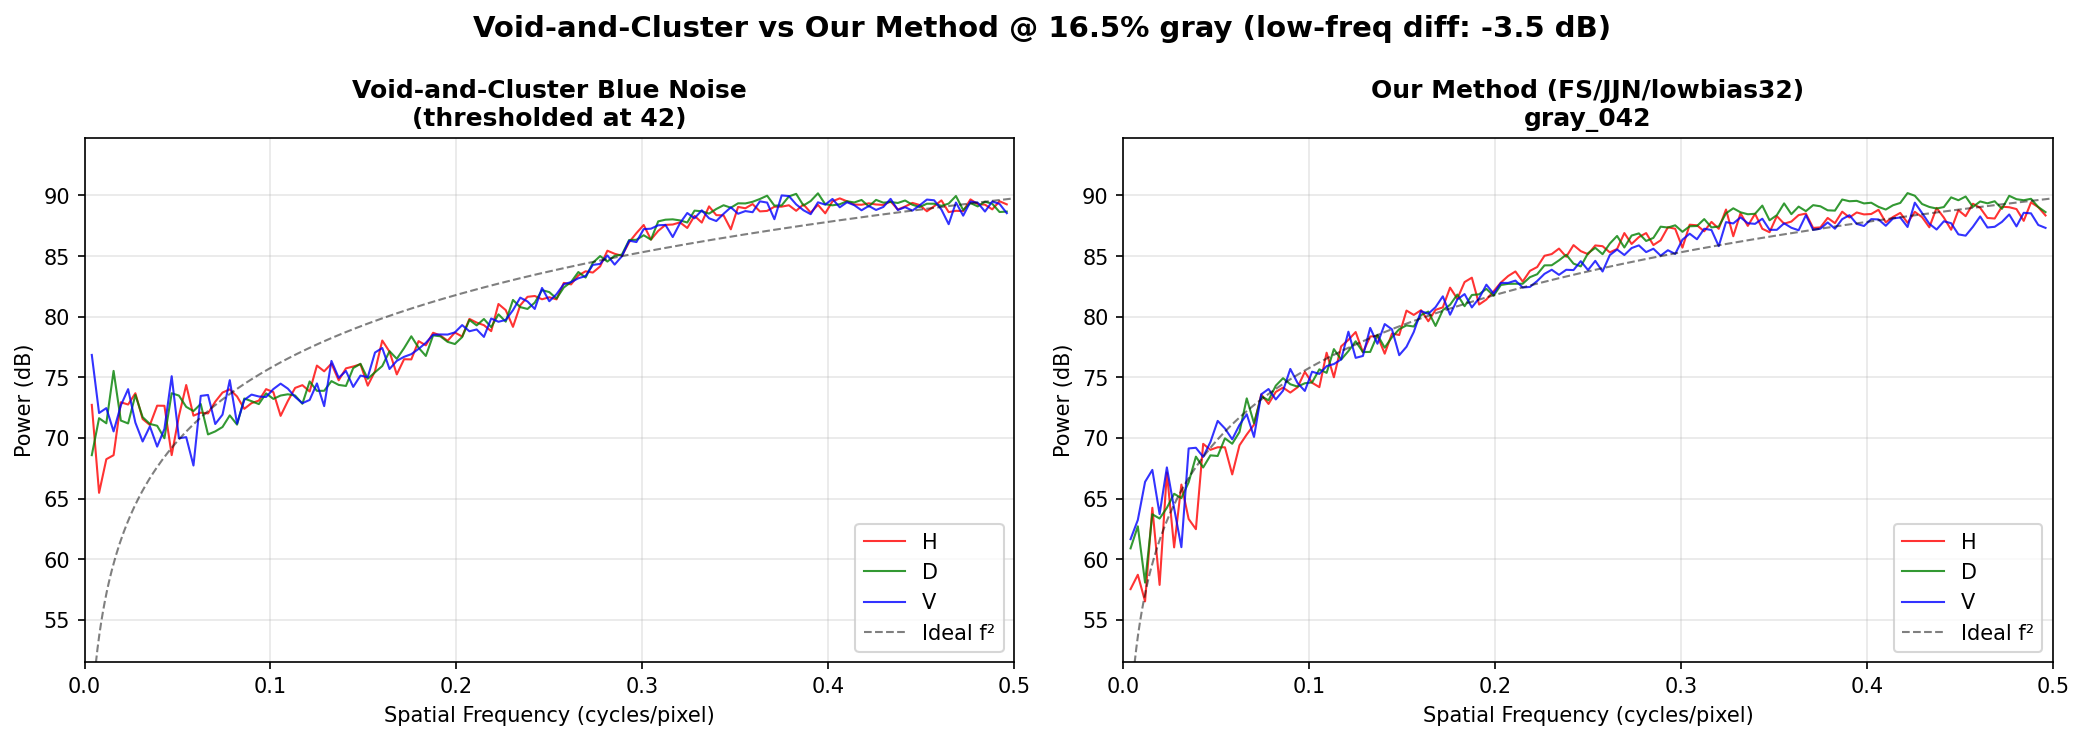
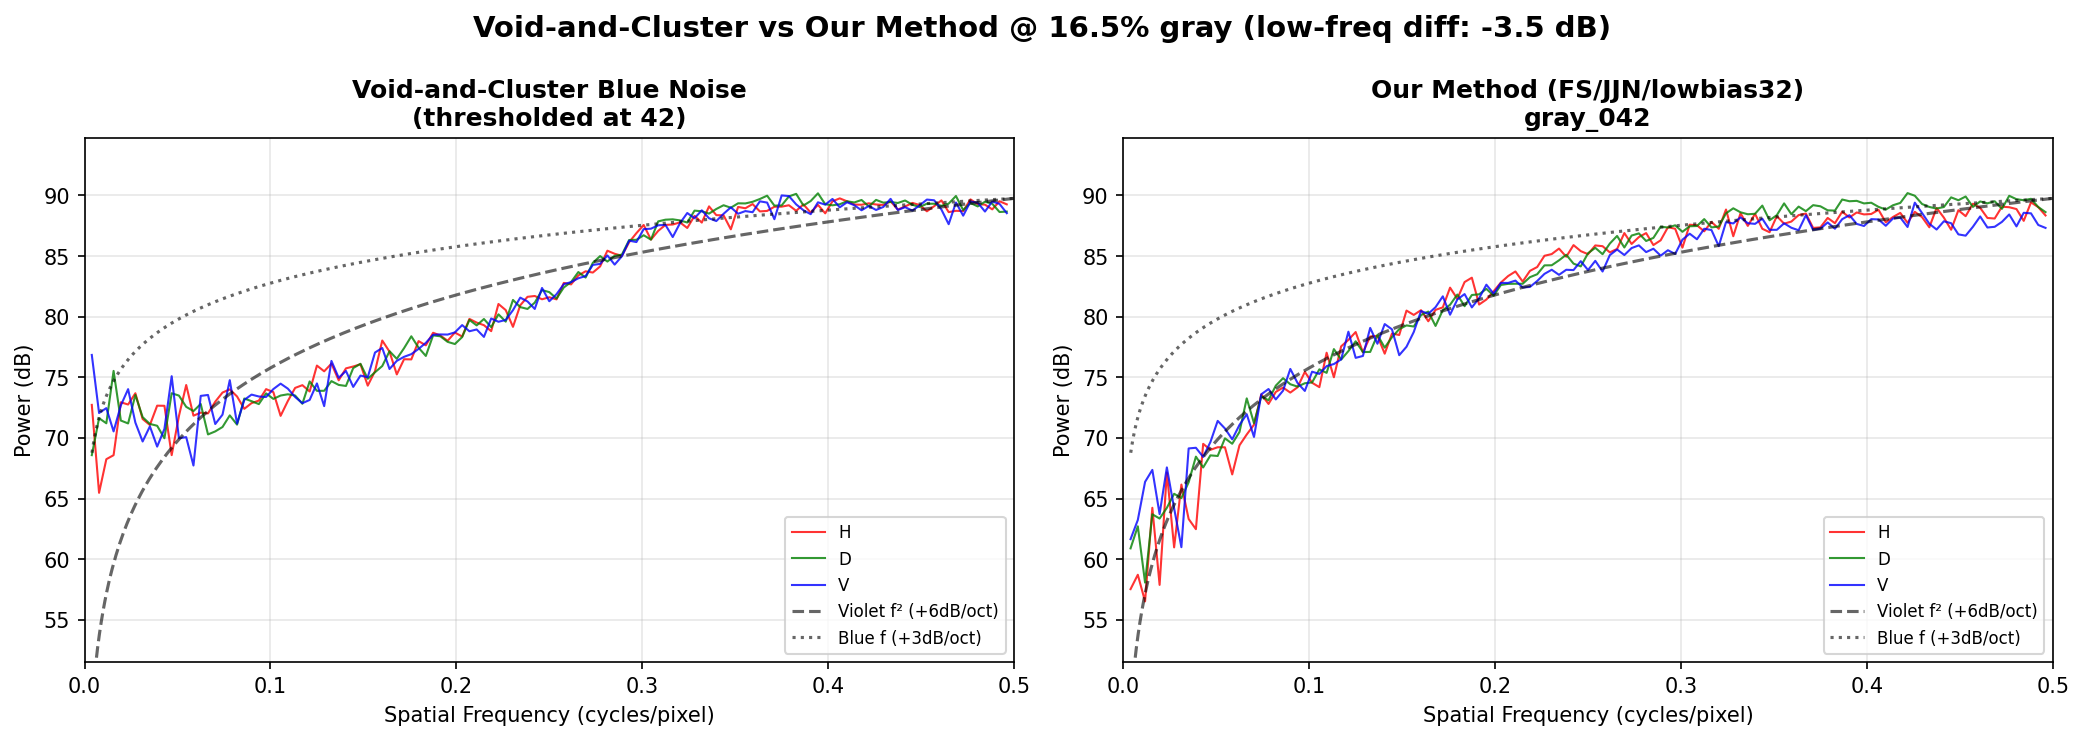
Additional comparison

diff --git a/tools/analyze_dither.py b/tools/analyze_dither.py
@@ -840,10 +840,13 @@ def analyze_vs_blue_noise(base_dir: Path, output_dir: Path):
         d_om_db = 10 * np.log10(d_om + 1e-10)
         v_om_db = 10 * np.log10(v_om + 1e-10)
 
-        # Ideal f² curve for reference
+        # Ideal curves for reference
         freqs_ideal = np.linspace(0.004, 0.5, 500)
         P_ref = 10 ** (h_bn_db.max() / 10)
-        power_ideal_db = 10 * np.log10(P_ref * (freqs_ideal / 0.5) ** 2 + 1e-10)
+        # Violet (+6 dB/octave, f²) - what graphics calls "blue noise"
+        power_violet_db = 10 * np.log10(P_ref * (freqs_ideal / 0.5) ** 2 + 1e-10)
+        # Audio blue (+3 dB/octave, f)
+        power_blue_db = 10 * np.log10(P_ref * (freqs_ideal / 0.5) + 1e-10)
 
         # Calculate stats
         bn_avg_db = (h_bn_db + d_bn_db + v_bn_db) / 3
@@ -859,27 +862,29 @@ def analyze_vs_blue_noise(base_dir: Path, output_dir: Path):
         axes[0].plot(freqs_bn, h_bn_db, 'r-', label='H', alpha=0.8, linewidth=1)
         axes[0].plot(freqs_bn, d_bn_db, 'g-', label='D', alpha=0.8, linewidth=1)
         axes[0].plot(freqs_bn, v_bn_db, 'b-', label='V', alpha=0.8, linewidth=1)
-        axes[0].plot(freqs_ideal, power_ideal_db, 'k--', linewidth=1, alpha=0.5, label='Ideal f²')
+        axes[0].plot(freqs_ideal, power_violet_db, 'k--', linewidth=1.5, alpha=0.6, label='Violet f² (+6dB/oct)')
+        axes[0].plot(freqs_ideal, power_blue_db, 'k:', linewidth=1.5, alpha=0.6, label='Blue f (+3dB/oct)')
         axes[0].set_xlabel('Spatial Frequency (cycles/pixel)')
         axes[0].set_ylabel('Power (dB)')
         axes[0].set_title(f'Void-and-Cluster Blue Noise\n(thresholded at {gray})', fontsize=12, fontweight='bold')
         axes[0].set_xlim(0, 0.5)
         axes[0].set_ylim(y_min, y_max)
         axes[0].grid(True, alpha=0.3)
-        axes[0].legend(loc='lower right')
+        axes[0].legend(loc='lower right', fontsize=8)
 
         # Right: Our Method
         axes[1].plot(freqs_om, h_om_db, 'r-', label='H', alpha=0.8, linewidth=1)
         axes[1].plot(freqs_om, d_om_db, 'g-', label='D', alpha=0.8, linewidth=1)
         axes[1].plot(freqs_om, v_om_db, 'b-', label='V', alpha=0.8, linewidth=1)
-        axes[1].plot(freqs_ideal, power_ideal_db, 'k--', linewidth=1, alpha=0.5, label='Ideal f²')
+        axes[1].plot(freqs_ideal, power_violet_db, 'k--', linewidth=1.5, alpha=0.6, label='Violet f² (+6dB/oct)')
+        axes[1].plot(freqs_ideal, power_blue_db, 'k:', linewidth=1.5, alpha=0.6, label='Blue f (+3dB/oct)')
         axes[1].set_xlabel('Spatial Frequency (cycles/pixel)')
         axes[1].set_ylabel('Power (dB)')
         axes[1].set_title(f'Our Method (FS/JJN/lowbias32)\ngray_{gray:03d}', fontsize=12, fontweight='bold')
         axes[1].set_xlim(0, 0.5)
         axes[1].set_ylim(y_min, y_max)
         axes[1].grid(True, alpha=0.3)
-        axes[1].legend(loc='lower right')
+        axes[1].legend(loc='lower right', fontsize=8)
 
         gray_pct = gray / 255 * 100
         plt.suptitle(f'Void-and-Cluster vs Our Method @ {gray_pct:.1f}% gray (low-freq diff: {low_freq_diff:.1f} dB)',
